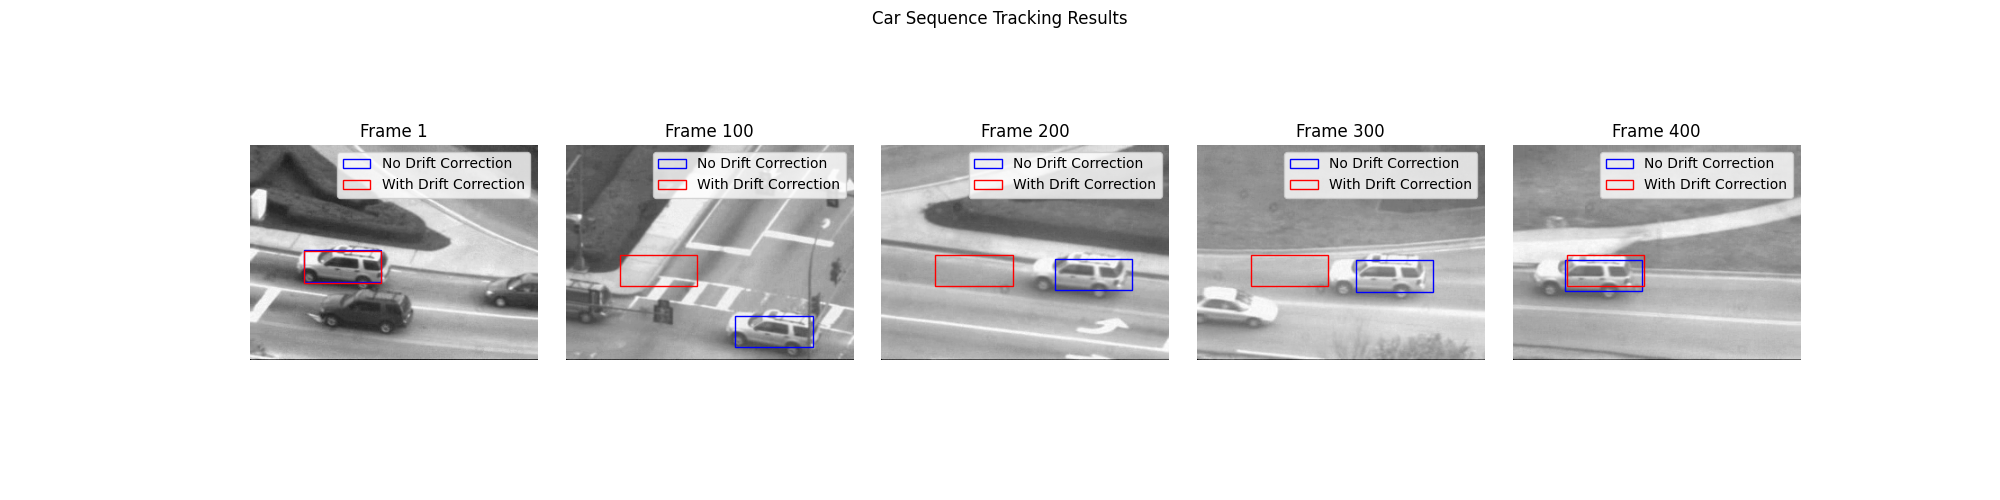
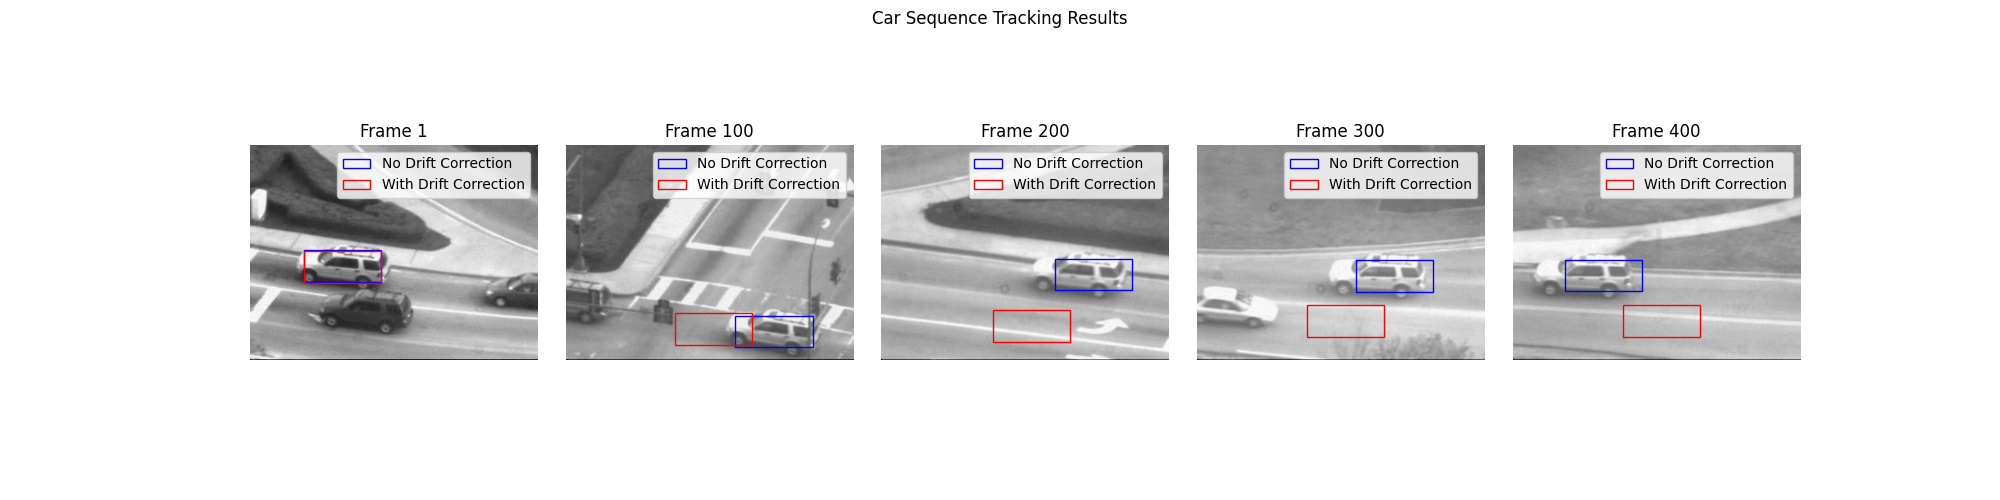
LKT-affine done, dirft correction still bugged.

diff --git a/HW2_Lucas_Kanade_Tracking/code/testGirlSequenceWithTemplateCorrection.py b/HW2_Lucas_Kanade_Tracking/code/testGirlSequenceWithTemplateCorrection.py
@@ -42,14 +42,12 @@ rects_ndc = np.zeros((num_frames, 4))
 rects_ndc[0] = rect_ndc.copy()
 
 # initialize the rectangle coordinates with drift correction
-# rects_wdc = np.zeros(2)
 rects_wdc = np.zeros((num_frames, 4))
 rects_wdc[0] = rect_wdc.copy()
 
-
 # iterate through the frames
 for i in range(num_frames - 1):
-    print(f"tracking at frame {i + 1}")
+    print(f"Tracking at frame {i + 1}/{num_frames - 1}")
 
     # get the first, current, and next frame images
     It = seq[:, :, i]
@@ -60,31 +58,39 @@ for i in range(num_frames - 1):
     p_ndc = LucasKanade(It, It1, rect_ndc, threshold, num_iters)
 
     # update the rectangle coordinates without drift correction
-    rect_ndc += np.array([p_ndc[0], p_ndc[1], p_ndc[0], p_ndc[1]])
+    rect_ndc[0] += p_ndc[0]
+    rect_ndc[1] += p_ndc[1]
+    rect_ndc[2] += p_ndc[0]
+    rect_ndc[3] += p_ndc[1]
 
     # Save the rectangle coordinates without drift correction
     rects_ndc[i + 1] = rect_ndc.copy()
 
     # run Lucas-Kanade tracking (with drift correction)
-    p_wdc = LucasKanade(It0, It1, rect_wdc, threshold, num_iters, p_ndc)
+    p_wdc = LucasKanade(It0, It1, np.array(rect_wdc), threshold, num_iters, p_ndc)
 
     # update the rectangle coordinates (with drift correction)
-    rect_wdc += np.array([p_wdc[0], p_wdc[1], p_wdc[0], p_wdc[1]])
+    rect_wdc[0] += p_wdc[0]
+    rect_wdc[1] += p_wdc[1]
+    rect_wdc[2] += p_wdc[0]
+    rect_wdc[3] += p_wdc[1]
 
     # calculate drift
-    drift = rect_wdc - rect_ndc
+    drift = p_wdc - p_ndc
 
     # drift correction condition
     if np.linalg.norm(drift) <= template_threshold:
         # apply drift correction
-        # rect_wdc += np.array([drift[0], drift[1], drift[0], drift[1]])
-        rect_wdc += np.array([p_wdc[0], p_wdc[1], p_wdc[0], p_wdc[1]])
-        print(f"Frame {i+1}: Drift correction applied with {drift}")
+        rect_wdc[0] += p_wdc[0]
+        rect_wdc[1] += p_wdc[1]
+        rect_wdc[2] += p_wdc[0]
+        rect_wdc[3] += p_wdc[1]
+        print(f"Frame {i + 1}: Drift correction applied with {drift}")
 
     else:
         # keep previous template
         rect_wdc = rects_wdc[i].copy()
-        print(f"Frame {i+1}: No drift correction applied")
+        print(f"Frame {i + 1}: No drift correction applied")
 
     # Save the rectangle coordinates with drift correction
     rects_wdc[i + 1] = rect_wdc.copy()
@@ -103,7 +109,7 @@ for i, frame in enumerate(frames):
     ax[i].imshow(seq[:, :, frame], cmap="gray")
     ax[i].axis("off")
 
-    # without drift correction
+    # bounding box without drift correction (blue)
     ax[i].add_patch(
         patches.Rectangle(
             (rects_ndc[frame][0], rects_ndc[frame][1]),
@@ -115,7 +121,7 @@ for i, frame in enumerate(frames):
         )
     )
 
-    # with drift correction
+    # bounding box with drift correction (red)
     ax[i].add_patch(
         patches.Rectangle(
             (rects_wdc[frame][0], rects_wdc[frame][1]),

diff --git a/HW2_Lucas_Kanade_Tracking/code/LucasKanadeAffine.py b/HW2_Lucas_Kanade_Tracking/code/LucasKanadeAffine.py
@@ -3,6 +3,14 @@ from scipy.interpolate import RectBivariateSpline
 from scipy.ndimage import affine_transform
 import cv2
 
+
+def affine_warp(x, y, p):
+    # warp the coordinates using the affine warp matrix
+    x_warped = (1 + p[0]) * x + p[1] * y + p[2]
+    y_warped = p[3] * x + (1 + p[4]) * y + p[5]
+    return x_warped, y_warped
+    
+
 def LucasKanadeAffine(It, It1, threshold, num_iters):
     """
     :param It: template image
@@ -28,8 +36,50 @@ def LucasKanadeAffine(It, It1, threshold, num_iters):
     # interpolate the template and current image
     It_interp = RectBivariateSpline(np.arange(H), np.arange(W), It)
     It1_interp = RectBivariateSpline(np.arange(H), np.arange(W), It1)
-  
 
 
+    for _ in range(int(num_iters)):
 
+        # interpolate the current template image
+        It_template = It_interp.ev(y, x).reshape(H, W)
+
+        # affine warp
+        x_warped, y_warped = affine_warp(x.flatten(), y.flatten(), p) 
+
+        # interpolate the warped image
+        It1_warped = It1_interp.ev(y_warped, x_warped).reshape(H, W)
+
+        # compute the error image
+        b = (It_template - It1_warped).flatten()
+
+        # compute the gradient of warped image
+        x_grad = cv2.Sobel(It1_warped, cv2.CV_64F, 1, 0, ksize=3)
+        y_grad = cv2.Sobel(It1_warped, cv2.CV_64F, 0, 1, ksize=3)
+
+        # compute the Jacobian
+        A = np.zeros((H * W, 6))
+        A[:, 0] = x.flatten() * x_grad.flatten()
+        A[:, 1] = x.flatten() * y_grad.flatten()
+        A[:, 2] = x_grad.flatten()
+        A[:, 3] = y.flatten() * x_grad.flatten()
+        A[:, 4] = y.flatten() * y_grad.flatten()
+        A[:, 5] = y_grad.flatten()
+
+        # compute the delta p
+        dp = np.linalg.lstsq(A, b, rcond=None)[0]
+
+        # update the movement vector
+        p += dp
+
+        # termination condition
+        if np.linalg.norm(dp) < threshold:
+            break
+
+    # update the affine warp matrix
+    M = np.array([[1 + p[0], p[1], p[2]], 
+                  [p[3], 1 + p[4], p[5]]])
+    
+    # debug print
+    # print(f"M: {M}")
+    
     return M

diff --git a/HW2_Lucas_Kanade_Tracking/code/testAntSequence.py b/HW2_Lucas_Kanade_Tracking/code/testAntSequence.py
@@ -2,23 +2,24 @@ import argparse
 import numpy as np
 import matplotlib.pyplot as plt
 import matplotlib.patches as patches
+from SubtractDominantMotion import SubtractDominantMotion
 
 # write your script here, we recommend the above libraries for making your animation
 
 parser = argparse.ArgumentParser()
 parser.add_argument(
-    '--num_iters', type=int, default=1e3, help='number of iterations of Lucas-Kanade'
+    '--num_iters', type=int, default=1e10, help='number of iterations of Lucas-Kanade'
 )
 parser.add_argument(
     '--threshold',
     type=float,
-    default=1e-2,
+    default=0.05,
     help='dp threshold of Lucas-Kanade for terminating optimization',
 )
 parser.add_argument(
     '--tolerance',
     type=float,
-    default=0.2,
+    default=0.016,
     help='binary threshold of intensity difference when computing the mask',
 )
 parser.add_argument(
@@ -41,3 +42,33 @@ HINT:
 3. Use the SubtractDominantMotion function to compute the motion mask between consecutive frames.
 4. Use the motion 'masks; array for visualization.
 '''
+# intialize the masks
+masks = []
+
+# set the initial mask for the first frame to False
+mask = np.zeros(seq.shape[1:], dtype=bool)
+
+# total number of frames
+num_frames = seq.shape[2]
+
+# iterate over the frames
+for i in range(seq.shape[2] - 1):
+    print(f"Tracking frame: {i + 1}/{num_frames - 1}")
+    # compute the motion mask between consecutive frames
+    mask = SubtractDominantMotion(seq[:,:,i], seq[:,:,i+1], threshold, num_iters, tolerance)
+    masks.append(mask)
+
+# visualize the motion masks @ frames 30, 60, 90, 120
+frames = [30, 60, 90, 120]
+fig, ax = plt.subplots(1, len(frames), figsize=(20, 5))
+fig.suptitle("Ant Sequence Tracking Results") 
+plt.subplots_adjust(wspace=0.1, hspace=0.1)
+
+for i, frame in enumerate(frames):
+    ax[i].imshow(seq[:,:,frame], cmap='gray')
+    ax[i].imshow(masks[frame], alpha=0.6, cmap='Blues')
+    ax[i].axis('off')
+    ax[i].set_title('Frame {}'.format(frame))
+
+plt.savefig("../results/Q2.3_ant.png")
+plt.show()

diff --git a/HW2_Lucas_Kanade_Tracking/code/testAerialSequence.py b/HW2_Lucas_Kanade_Tracking/code/testAerialSequence.py
@@ -2,6 +2,7 @@ import argparse
 import numpy as np
 import matplotlib.pyplot as plt
 import matplotlib.patches as patches
+from SubtractDominantMotion import SubtractDominantMotion
 
 # write your script here, we recommend all or some of the above libraries for making your animation
 
@@ -12,13 +13,13 @@ parser.add_argument(
 parser.add_argument(
     '--threshold',
     type=float,
-    default=1e-2,
+    default=5,
     help='dp threshold of Lucas-Kanade for terminating optimization',
 )
 parser.add_argument(
     '--tolerance',
     type=float,
-    default=0.2,
+    default=0.165,
     help='binary threshold of intensity difference when computing the mask',
 )
 parser.add_argument(
@@ -41,3 +42,34 @@ HINT:
 3. Use the SubtractDominantMotion function to compute the motion mask between consecutive frames.
 4. Use the motion 'masks; array for visualization.
 '''
+
+# intialize the masks
+masks = []
+
+# set the initial mask for the first frame to False
+mask = np.zeros(seq.shape[1:], dtype=bool)
+
+# total number of frames
+num_frames = seq.shape[2]
+
+# iterate over the frames
+for i in range(seq.shape[2] - 1):
+    print(f"Tracking frame: {i + 1}/{num_frames - 1}")
+    # compute the motion mask between consecutive frames
+    mask = SubtractDominantMotion(seq[:,:,i], seq[:,:,i+1], threshold, num_iters, tolerance)
+    masks.append(mask)
+
+# visualize the motion masks @ frames 30, 60, 90, 120
+frames = [30, 60, 90, 120]
+fig, ax = plt.subplots(1, len(frames), figsize=(20, 5))
+fig.suptitle("Aerial Sequence Tracking Results") 
+plt.subplots_adjust(wspace=0.1, hspace=0.1)
+
+for i, frame in enumerate(frames):
+    ax[i].imshow(seq[:,:,frame], cmap='gray')
+    ax[i].imshow(masks[frame], alpha=0.6, cmap='Blues')
+    ax[i].axis('off')
+    ax[i].set_title('Frame {}'.format(frame))
+
+plt.savefig("../results/Q2.3_aerial.png")
+plt.show()

diff --git a/HW2_Lucas_Kanade_Tracking/code/testCarSequenceWithTemplateCorrection.py b/HW2_Lucas_Kanade_Tracking/code/testCarSequenceWithTemplateCorrection.py
@@ -47,7 +47,7 @@ rects_wdc[0] = rect_wdc.copy()
 
 # iterate through the frames
 for i in range(num_frames - 1):
-    print(f"Tracking at frame {i + 1}")
+    print(f"Tracking at frame {i + 1}/{num_frames - 1}")
 
     # get the first, current, and next frame images
     It = seq[:, :, i]
@@ -58,7 +58,10 @@ for i in range(num_frames - 1):
     p_ndc = LucasKanade(It, It1, rect_ndc, threshold, num_iters)
 
     # update the rectangle coordinates (no drift correction)
-    rect_ndc += np.array([p_ndc[0], p_ndc[1], p_ndc[0], p_ndc[1]])
+    rect_ndc[0] += p_ndc[0]
+    rect_ndc[1] += p_ndc[1]
+    rect_ndc[2] += p_ndc[0]
+    rect_ndc[3] += p_ndc[1]
 
     # Save the rectangle coordinates (no drift correction)
     rects_ndc[i + 1] = rect_ndc.copy()
@@ -67,16 +70,21 @@ for i in range(num_frames - 1):
     p_wdc = LucasKanade(It0, It1, rect_wdc, threshold, num_iters, p_ndc)
 
     # update the rectangle coordinates (with drift correction)
-    rect_wdc += np.array([p_wdc[0], p_wdc[1], p_wdc[0], p_wdc[1]])
+    rect_wdc[0] += p_wdc[0]
+    rect_wdc[1] += p_wdc[1]
+    rect_wdc[2] += p_wdc[0]
+    rect_wdc[3] += p_wdc[1]
 
     # calculate drift
-    drift = rect_wdc - rect_ndc
+    drift = p_wdc - p_ndc
 
     # drift correction condition
     if np.linalg.norm(drift) <= template_threshold:
         # apply drift correction
-        # rect_wdc += np.array([drift[0], drift[1], drift[0], drift[1]])
-        rect_wdc += np.array([p_wdc[0], p_wdc[1], p_wdc[0], p_wdc[1]])
+        rect_wdc[0] += p_wdc[0]
+        rect_wdc[1] += p_wdc[1]
+        rect_wdc[2] += p_wdc[0]
+        rect_wdc[3] += p_wdc[1]
         print(f"Frame {i+1}: Drift correction applied with {drift}")
 
     else:

diff --git a/HW2_Lucas_Kanade_Tracking/code/SubtractDominantMotion.py b/HW2_Lucas_Kanade_Tracking/code/SubtractDominantMotion.py
@@ -1,6 +1,5 @@
 import numpy as np
-from scipy.ndimage.morphology import binary_erosion
-from scipy.ndimage.morphology import binary_dilation
+from scipy.ndimage import binary_erosion, binary_dilation
 from scipy.ndimage import affine_transform
 from LucasKanadeAffine import LucasKanadeAffine
 from InverseCompositionAffine import InverseCompositionAffine
@@ -14,11 +13,19 @@ def SubtractDominantMotion(image1, image2, threshold, num_iters, tolerance):
     :param tolerance: binary threshold of intensity difference when computing the mask
     :return: mask: [nxm]
     """
-    
-    # put your implementation here
-    mask = np.ones(image1.shape, dtype=bool)
-
     ################### TODO Implement Substract Dominent Motion ###################
     
+    # compute the affine warp matrix
+    M = LucasKanadeAffine(image1, image2, threshold, num_iters)
+
+    # warp the image using the affine warp matrix
+    image1_warped = affine_transform(image1, M[:2, :2], offset=M[:2, 2])
+
+    # compute the mask with binary threshold of intensity difference
+    mask = np.abs(image1_warped - image2) > tolerance
+
+    # apply morphological operations
+    mask = binary_erosion(mask, iterations=1)
+    mask = binary_dilation(mask, iterations=5)
 
     return mask.astype(bool)
